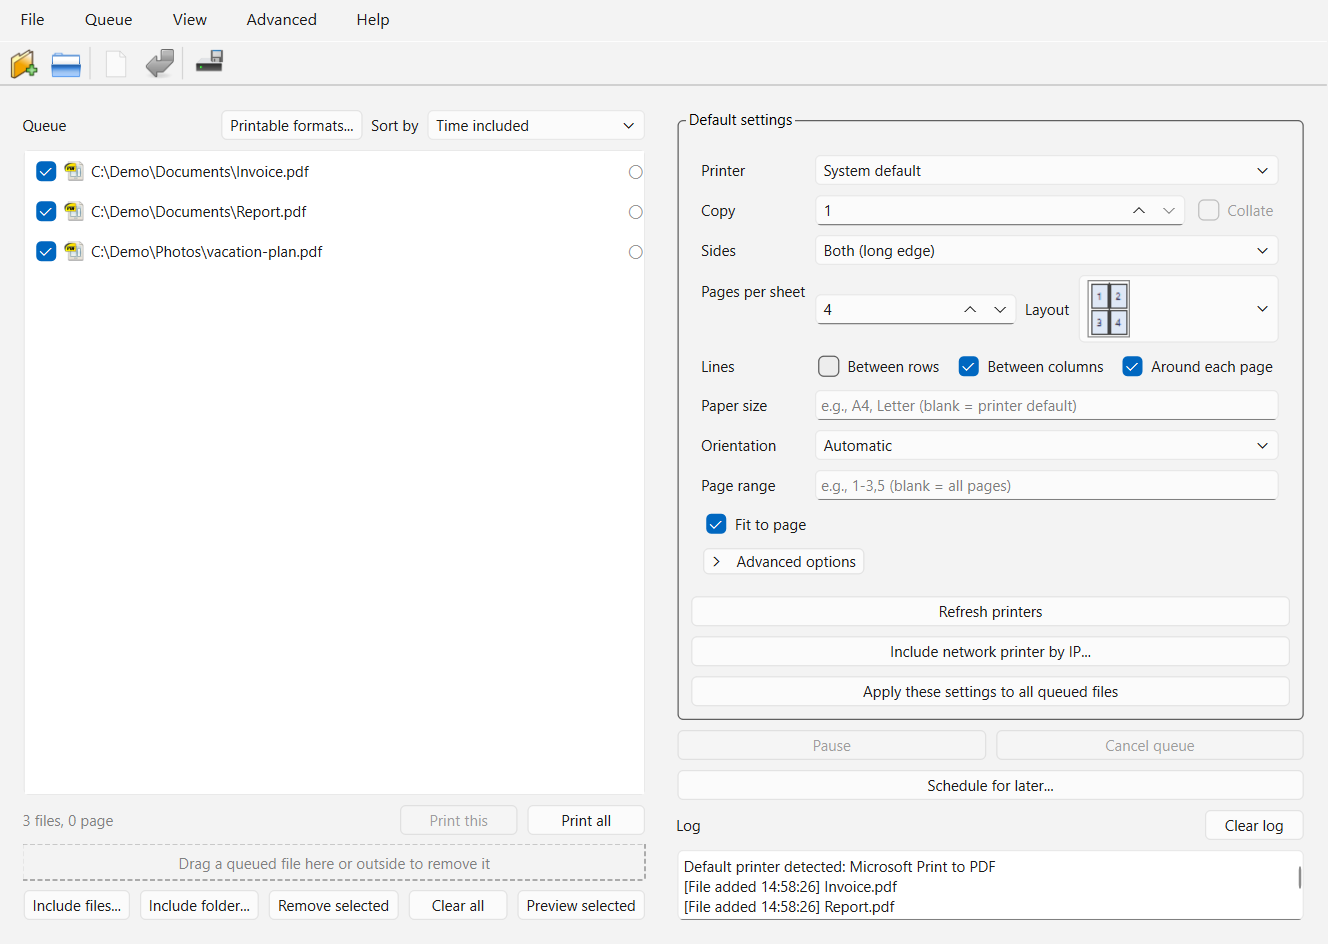
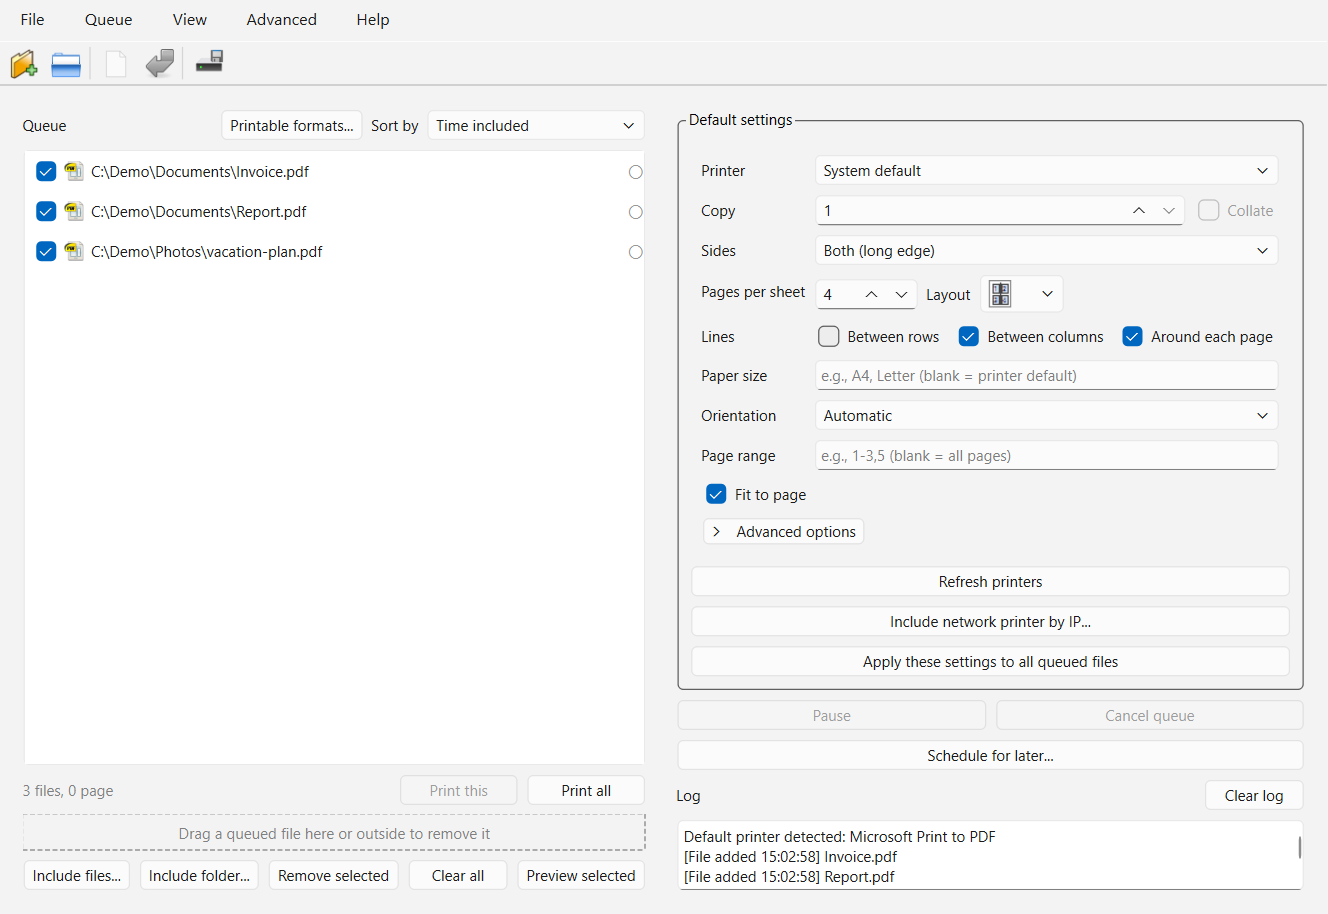
Compact row

diff --git a/printtool/gui/widgets.py b/printtool/gui/widgets.py
@@ -43,12 +43,14 @@ class SettingsWidget(QWidget):
         # Pages per sheet: A number (1 by default); above 1 the grid choice
         # opens with the layouts that fit that number.
         self.nup_spin = QSpinBox()
-        self.nup_spin.setRange(1, 16)
+        self.nup_spin.setRange(1, 10)
+        self.nup_spin.setFixedWidth(84)
         self.nup_spin.setValue(1)
         # Each layout is shown as a small drawing of the sheet, with its
         # pages numbered in reading order.
         self.grid_combo = QComboBox()
-        self.grid_combo.setIconSize(QSize(34, 46))
+        self.grid_combo.setIconSize(QSize(18, 22))
+        self.grid_combo.setSizeAdjustPolicy(QComboBox.AdjustToContents)
         self.grid_combo.setEnabled(False)
         self.lines_rows = QCheckBox("Between rows")
         self.lines_cols = QCheckBox("Between columns")
@@ -115,6 +117,7 @@ class SettingsWidget(QWidget):
         advanced_toggle.toggled.connect(_toggle_advanced)
 
         layout = QFormLayout(self)
+        layout.setLabelAlignment(Qt.AlignLeft | Qt.AlignVCenter)
         layout.addRow("Printer", self.printer_combo)
         copy_row = QHBoxLayout()
         copy_row.addWidget(self.copies_spin, 1)
@@ -122,9 +125,10 @@ class SettingsWidget(QWidget):
         layout.addRow("Copy", copy_row)
         layout.addRow("Sides", self.duplex_combo)
         nup_row = QHBoxLayout()
-        nup_row.addWidget(self.nup_spin, 1)
+        nup_row.addWidget(self.nup_spin)
         nup_row.addWidget(QLabel("Layout"))
-        nup_row.addWidget(self.grid_combo, 1)
+        nup_row.addWidget(self.grid_combo)
+        nup_row.addStretch()
         layout.addRow("Pages per sheet", nup_row)
         lines_row = QHBoxLayout()
         for box in (self.lines_rows, self.lines_cols, self.lines_frame):
@@ -146,7 +150,7 @@ class SettingsWidget(QWidget):
     def _sheet_icon(self, per_sheet: int, cols: int, rows: int) -> QIcon:
         """A portrait sheet with its cells, numbered in reading order, and
         the chosen lines."""
-        w, h = 34, 46
+        w, h = 18, 22
         pix = QPixmap(w, h)
         pix.fill(QColor("white"))
         p = QPainter(pix)

diff --git a/CHANGELOG.md b/CHANGELOG.md
@@ -3,7 +3,7 @@
 ## Version 6
 - "Print this" and "Print all" under the queue, beside the counts; one "Print all".
 - "Include" instead of "Add"; "Copy" with Collate beside it (active above one copy); "Sides" One, Both (long edge, the default) or Both (short edge).
-- Pages per sheet (1 -- 16) with every layout that fits (4 as 2 × 2, 1 × 4 or 4 × 1; 7 as 2 × 4), each shown as a small drawing of the sheet; optional lines between rows, between columns or around each page; the date stamp shrinks with its page.
+- Pages per sheet (1 -- 10) with every layout that fits (4 as 2 × 2, 1 × 4 or 4 × 1; 7 as 2 × 4), each shown as a small drawing of the sheet; optional lines between rows, between columns or around each page; the date stamp shrinks with its page.
 - "Time included" sort and its reverse; singular "file"/"page" for 0 and 1; "e.g.,".
 - Grey tree lines with rounded corners for folders and zips.
 
